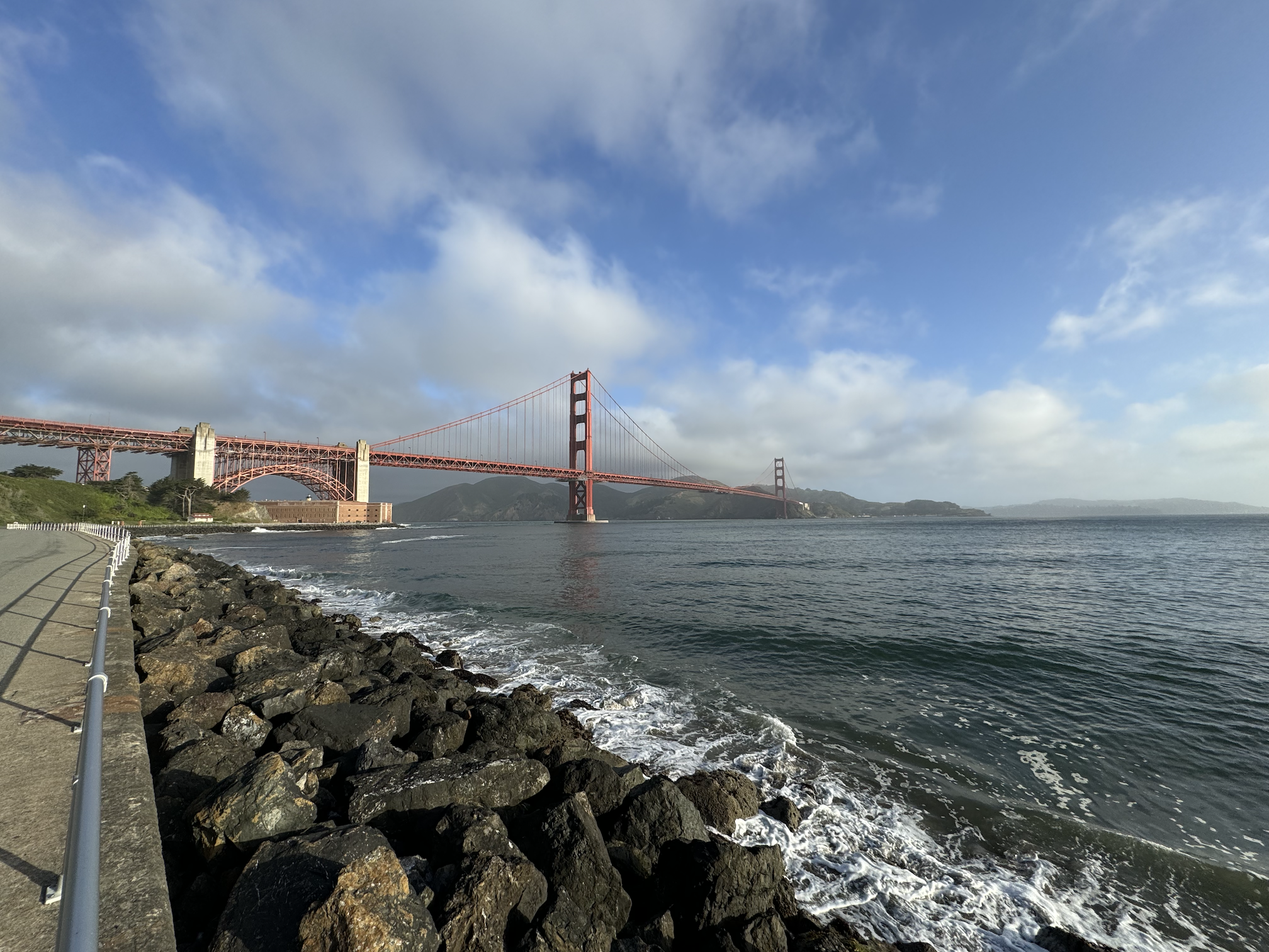
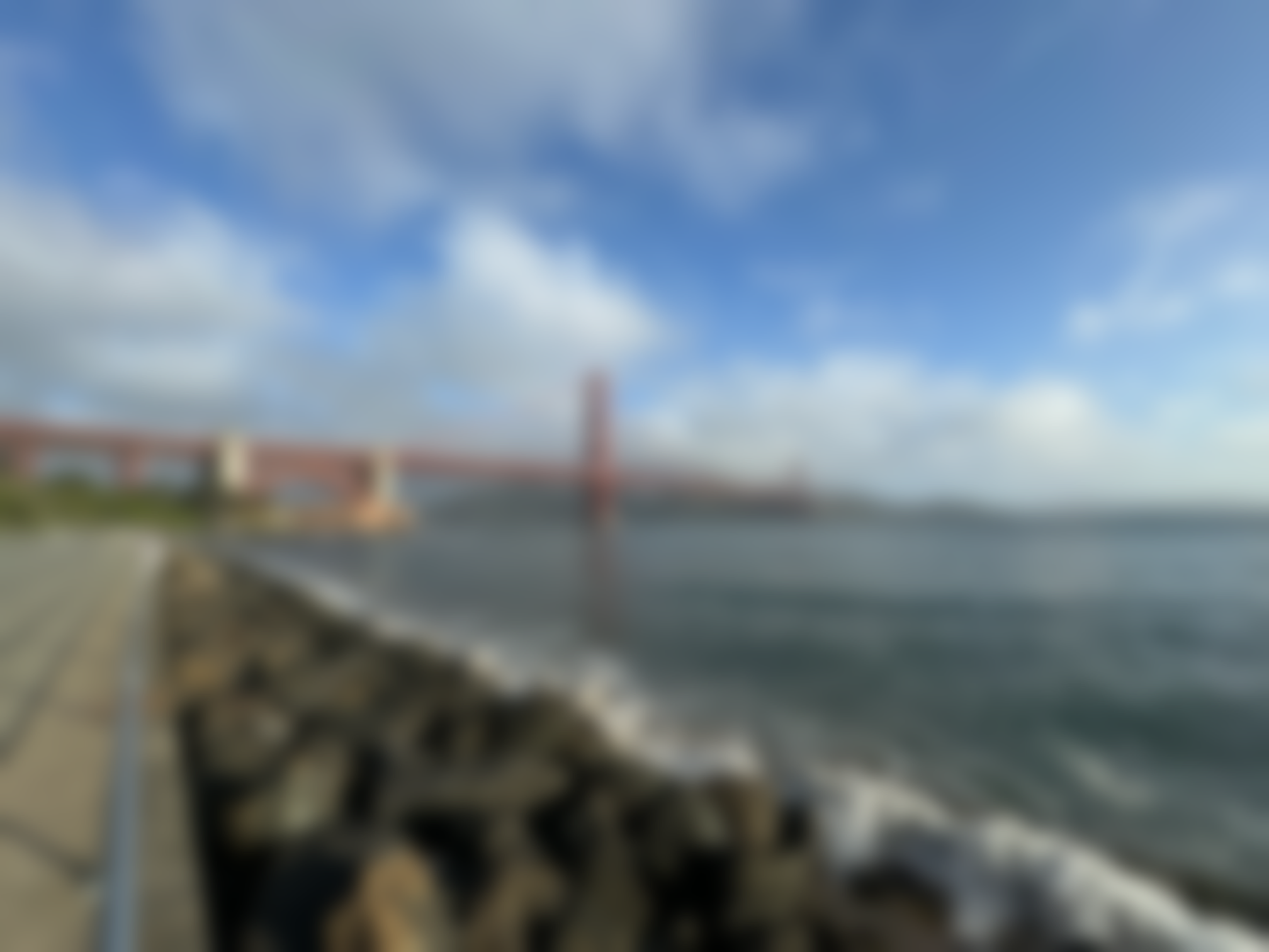
feat: remove blur layer

diff --git a/src/app/(home)/hero.tsx b/src/app/(home)/hero.tsx
@@ -9,7 +9,7 @@ import { datum } from "@/lib/datum";
 
 const Hero = () => {
   return (
-    <div className="absolute right-0 top-0 h-screen w-full overflow-hidden">
+    <div className="absolute right-0 top-0 w-screen h-screen overflow-hidden">
       <div className="relative place-content-start lg:place-content-center h-full flex-col bg-muted text-white flex dark:border-r">
         <Image
           src="/images/background.png"
@@ -20,9 +20,8 @@ const Hero = () => {
           className="animate-fade-1"
           priority
         />
-        <div className="z-5 absolute w-screen h-screen backdrop-blur-md" />
         <TagCloud
-          className="z-10 absolute w-screen h-screen flex justify-center items-center font-mono text-xs font-bold text-foreground mix-blend-overlay animate-fade-2"
+          className="z-20 absolute w-screen h-screen flex justify-center items-center font-mono text-xs font-bold text-foreground mix-blend-overlay animate-fade-2"
           options={(w: Window & typeof globalThis): any => ({
             radius: Math.max(w.innerWidth, w.innerHeight) / 2,
             maxSpeed: "slow",
@@ -30,7 +29,7 @@ const Hero = () => {
         >
           {datum}
         </TagCloud>
-        <div className="z-20 flex flex-col items-center pt-8 lg:pt-0 animate-fade-3">
+        <div className="z-30 flex flex-col items-center pt-8 lg:pt-0 animate-fade-3">
           <div className="pb-4 text-5xl font-bold text-center">Submap</div>
           <div className="pb-4 font-semibold font-mono">Open-source iOS multimodal agent</div>
           <div className="pb-2 flex space-x-4">
